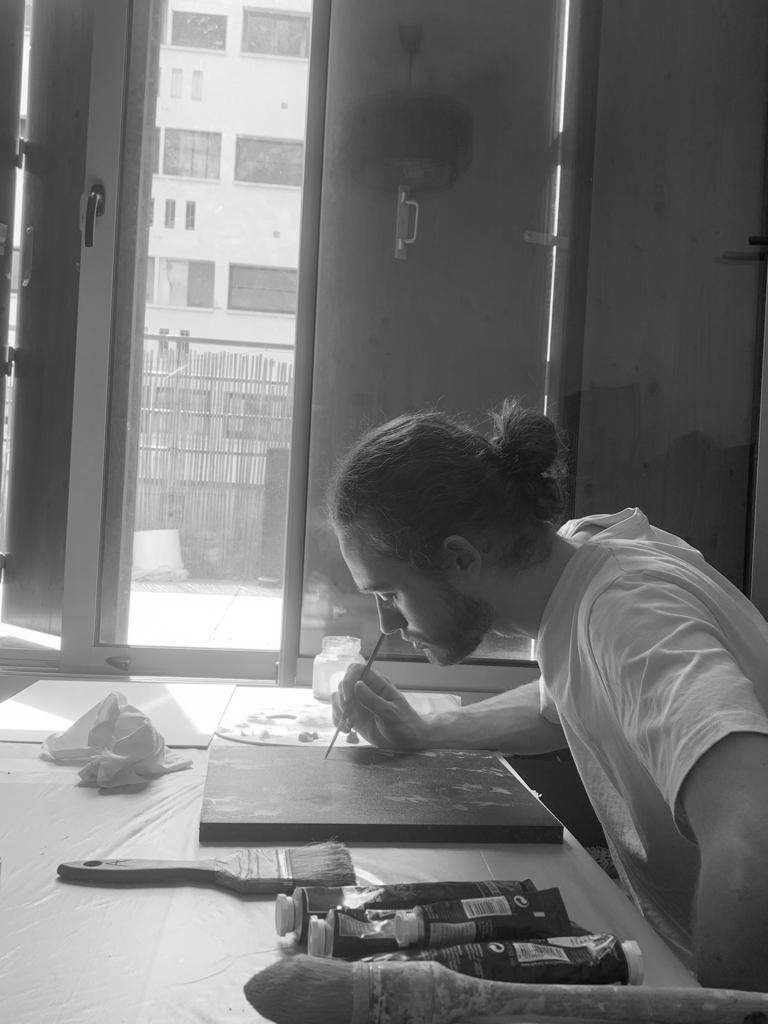
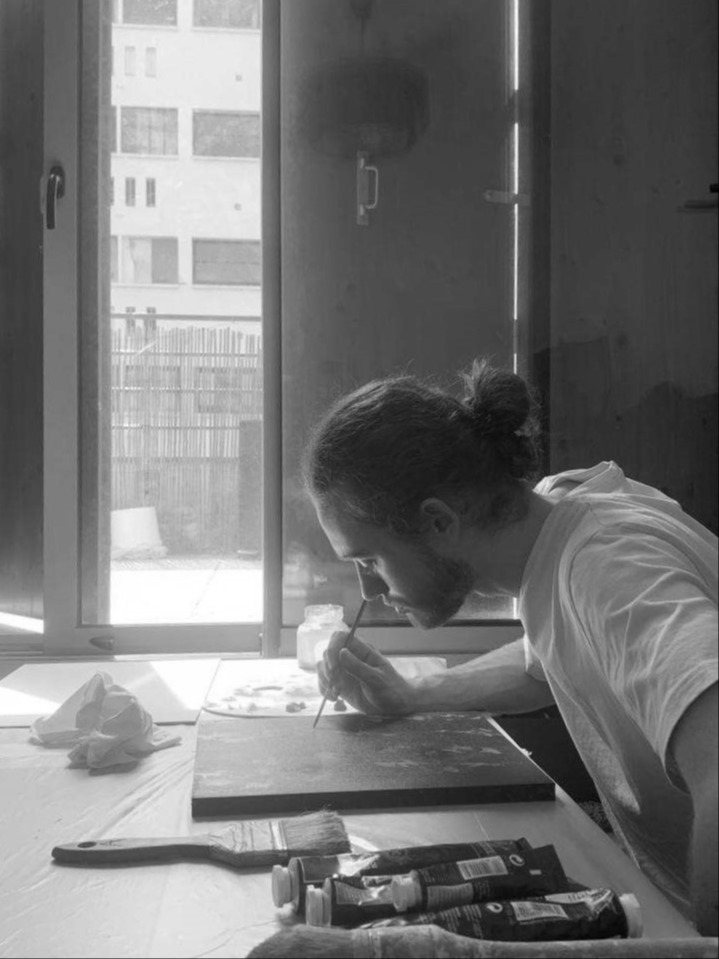
finish

diff --git a/about.html b/about.html
@@ -35,11 +35,11 @@
 
         /* La photo de l'artisan (De face ou 3/4, chaleureuse) */
         .bio-img {
-            width: 100%;
+            width: 66%;
             border-radius: 4px;
             box-shadow: 20px 20px 0px rgba(197, 160, 89, 0.2); /* Ombre dorée graphique */
             object-fit: cover;
-            height: 600px; /* Grande photo verticale */
+            height: 400px; /* Grande photo verticale */
         }
 
         .bio-content {
@@ -231,7 +231,7 @@
 
     <nav>
         <div class="nav-container">
-            <div class="logo-text">Alexandre Talatizi</div>
+            <div class="logo-text">Atelier Talatizi</div>
             <div class="menu">
                 <a href="index.html">LA MAISON</a>
                 <a href="about.html" class="active">L'ARTISAN</a>
@@ -252,9 +252,9 @@
             <h1 class="bio-title"></h1>
             
             <p class="bio-text">
-                Je m'appelle Alexandre Talatizi, et je vous souhaite la bienvenue sur mon site !
+                Je vous souhaite la bienvenue sur mon site !
                 <br><br>
-                Je suis peintre décorateur et pratique depuis maintenant 5 ans.
+                Je suis peintre décorateur et exerce depuis maintenant 5 ans.
                 <br><br>
                 Diplômé de la formation Artemisia à Paris depuis 2021, je mets mon savoir-faire au service de vos projets de rénovation, de restauration, et de décoration intérieure.
                 Spécialisé en imitation de marbres et d'essences de bois en peinture, je suis également formé aux techniques utilisant la matière.
@@ -346,12 +346,17 @@
 
         </div>
     </div> -->
+    <footer id="contact">
+        <div class="logo" style="color: white; margin-bottom: 30px;">Alexandre Talatizi</div>
+        
+        <div class="contact-block">
+            <p>PARIS</p>
+            <a href="contact.html" class="btn-luxe-light" style="margin-top: 30px;">Prendre contact</a>
+        </div>
 
-    <footer style="background-color: var(--dark); padding: 40px 20px; color:white; text-align:center;">
-        <div style="font-size: 0.8rem; opacity: 0.5;">
+        <div style="margin-top: 40px; font-size: 0.7rem; opacity: 0.5;">
             &copy; 2026 Alexandre Talatizi. Tous droits réservés.
         </div>
     </footer>
-
 </body>
 </html>

diff --git a/index.html b/index.html
@@ -112,7 +112,7 @@
 
     <nav>
         <div class="nav-container">
-            <div class="logo-text">Alexandre Talatizi</div>
+            <div class="logo-text">Atelier Talatizi</div>
             <div class="menu">
                 <a href="index.html" class="active">LA MAISON</a>
                 <a href="about.html">L'ARTISAN</a>
@@ -143,21 +143,21 @@
             <div class="speciality-card">
                 <span class="icon-art"><i class="fas fa-gem"></i></span>
                 <h3>Marbres</h3>
-                <p>Brèche violette, Marbre de Carrare, Portor. Reproduction fidèle des veinages et des transparences de la pierre.</p>
+                <p>Brèche violette, Vert de mer, Jaune de Sienne... Reproduction fidèle des veinages et des transparences de la pierre.</p>
             </div>
             <div class="speciality-card">
                 <span class="icon-art"><i class="fas fa-tree"></i></span>
                 <h3>Bois</h3>
-                <p>Noyer, Chêne, Ébène de Macassar. Imitation des essences précieuses pour vos boiseries et portes.</p>
+                <p>Loupe de noyer, Chêne, Acajou Gerbé... Habillez vos biens avec des éléments de boiseries.</p>
             </div>
             <div class="speciality-card">
                 <span class="icon-art"><i class="fas fa-cubes"></i></span> <h3>Pierres</h3>
-                <p>Effets de calcaire, grès et pierres de taille pour structurer vos façades et intérieurs.</p>
+                <p>Pierre de taille française, brique, granites divers... Adaptez les dimensions et les teintes à vos envies. </p>
             </div>
             <div class="speciality-card">
                 <span class="icon-art"><i class="fas fa-brush"></i></span>
                 <h3>Patines & Enduits</h3>
-                <p>Vieillissement contrôlé, dorure à la feuille et effets de matière pour donner une âme aux objets neufs.</p>
+                <p>Égayez vos murs avec des effets de patine divers, ou orientez vous vers la matière pour un réalisme accru.</p>
             </div>
         </div>
     </section>

diff --git a/contact.html b/contact.html
@@ -181,7 +181,7 @@
 
     <nav>
         <div class="nav-container">
-            <div class="logo-text">Alexandre Talatizi</div>
+            <div class="logo-text">Atelier Talatizi</div>
             <div class="menu">
                 <a href="index.html">LA MAISON</a>
                 <a href="about.html">L'ARTISAN</a>

diff --git a/gallery.html b/gallery.html
@@ -64,7 +64,7 @@
 
     <nav>
         <div class="nav-container">
-            <div class="logo-text">Alexandre Talatizi</div>
+            <div class="logo-text">Atelier Talatizi</div>
             <div class="menu">
                 <a href="index.html">LA MAISON</a>
                 <a href="about.html">L'ARTISAN</a>
